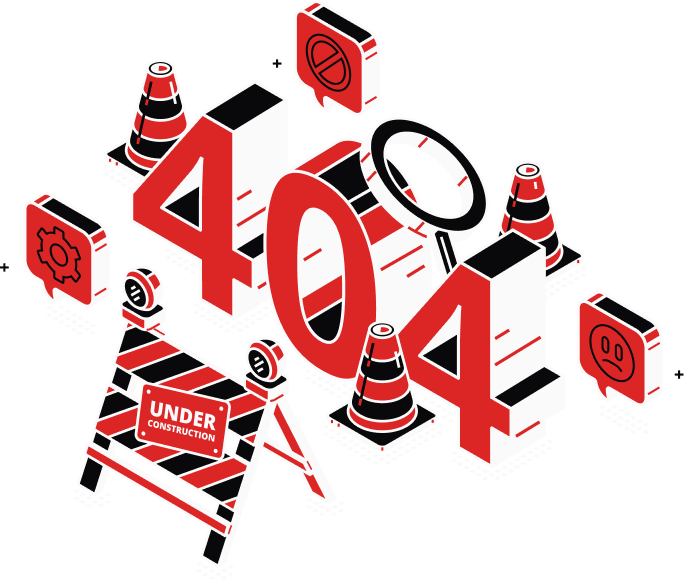
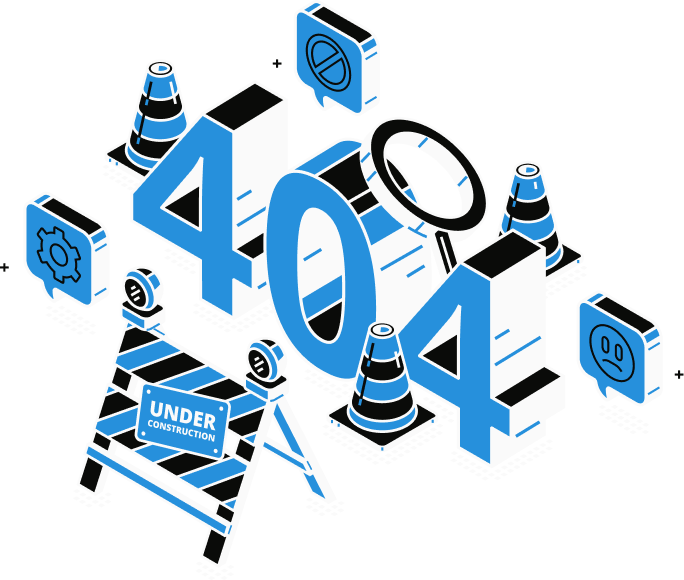
Update 404 page, menu structure, and sidebar theme refinements
Refresh 404 page images and simplify the not-found component.
Expand app menu entries and adjust sidebar primary theme and
vertical layout styles.

Made-with: Cursor

diff --git a/src/app/pages/notfound/notfound.ts b/src/app/pages/notfound/notfound.ts
@@ -1,4 +1,3 @@
-import { AppConfigurator } from '@/app/layout/components/app.configurator';
 import { LayoutService } from '@/app/layout/service/layout.service';
 import { LazyImageWidget } from '@/app/pages/landing/components/lazyimagewidget';
 import { Component, computed, inject } from '@angular/core';
@@ -6,21 +5,16 @@ import { RouterModule } from '@angular/router';
 
 @Component({
     selector: 'app-notfound',
-    standalone: true,
-    imports: [LazyImageWidget, RouterModule, AppConfigurator],
+    imports: [LazyImageWidget, RouterModule],
     template: ` <section class="animate-fadein animate-duration-300 animate-ease-in landing-container mx-auto min-h-[75vh] lg:min-h-screen flex flex-col items-center justify-center">
             <app-lazy-image-widget className="w-64 lg:w-96" [src]="'demo/images/landing/' + (isDarkTheme() ? '404-dark.png' : '404.png')" alt="404 Image" />
-            <h1 class="title-h5 lg:title-h1 mt-8">Error</h1>
-            <p class="body-small lg:body-large mt-2 lg:mt-4">Something gone wrong!</p>
-            <a routerLink="/" class="body-button bg-red-600 w-fit mt-8 hover:bg-red-500 px-4">Go to Dashboard</a>
-        </section>
-        <button class="layout-config-button config-link" (click)="layoutService.toggleConfigSidebar()">
-            <i class="pi pi-cog"></i>
-        </button>
-        <app-configurator simple />`
+            <h1 class="title-h5 lg:title-h1 mt-8">Under Construction</h1>
+            <p class="body-small lg:body-large mt-2 lg:mt-4">Come back later!</p>
+            <a routerLink="/" class="body-button bg-blue-600 w-fit mt-8 hover:bg-blue-500 px-4">Go to the Homepage</a>
+        </section>`
 })
 export class Notfound {
-    layoutService = inject(LayoutService);
+    private layoutService = inject(LayoutService);
 
     isDarkTheme = computed(() => this.layoutService.isDarkTheme());
 }

diff --git a/src/app/layout/components/app.menu.ts b/src/app/layout/components/app.menu.ts
@@ -1,4 +1,5 @@
-import { Component } from '@angular/core';
+import { LayoutService } from '@/app/layout/service/layout.service';
+import { Component, inject } from '@angular/core';
 import { CommonModule } from '@angular/common';
 import { RouterModule } from '@angular/router';
 import { AppMenuitem } from './app.menuitem';
@@ -21,6 +22,8 @@ const SB = environment.storybookBaseUrl;
     </ul> `
 })
 export class AppMenu {
+    private layoutService = inject(LayoutService);
+
     model: any[] = [
         {
             label: 'Home',
@@ -35,7 +38,7 @@ export class AppMenu {
             items: [
                 {
                     label: 'Partners',
-                    icon: 'pi pi-fw pi-building',
+                    icon: 'pi pi-fw pi-globe',
                     routerLink: ['/apps/partners']
                 },
                 {
@@ -97,6 +100,11 @@ export class AppMenu {
             icon: 'pi pi-fw pi-palette',
             path: '/ux',
             items: [
+                {
+                    label: 'Theme Configurator',
+                    icon: 'pi pi-fw pi-cog',
+                    command: () => this.layoutService.toggleConfigSidebar()
+                },
                 {
                     label: 'Storybook',
                     icon: 'pi pi-fw pi-book',

diff --git a/src/assets/layout/sidebar/themes/_primary.scss b/src/assets/layout/sidebar/themes/_primary.scss
@@ -8,7 +8,7 @@
     --d-menuitem-text-color: var(--p-surface-0);
     --d-menuitem-hover-bg: rgba(0, 16, 41, 0.376);
     --d-menuitem-active-bg: var(--p-ocean-100);
-    --d-menuitem-active-text-color: var(--p-surface-0);
+    --d-menuitem-active-text-color: var(--color-ocean-400);
     --d-menuitem-active-route-text-color: var(--color-ocean-400);
     --d-menuitem-focus-shadow: 0 0 0 0.2rem rgba(1, 26, 46, 0.45);
     --d-sidebar-border: 1px solid transparent;
@@ -24,7 +24,7 @@
     --d-menuitem-text-color: var(--p-surface-50);
     --d-menuitem-hover-bg: rgba(0, 16, 41, 0.376);
     --d-menuitem-active-bg: var (--p-ocean-100);
-    --d-menuitem-active-text-color: var(--color-surface-0);
+    --d-menuitem-active-text-color: var(--color-ocean-400);
     --d-menuitem-active-route-text-color: var(--color-ocean-400);
     --d-menuitem-focus-shadow: 0 0 0 0.2rem rgba(1, 26, 46, 0.45);
 }

diff --git a/src/assets/layout/sidebar/_sidebar_theme_core.scss b/src/assets/layout/sidebar/_sidebar_theme_core.scss
@@ -33,6 +33,7 @@
                 color: var(--d-menuitem-text-color);
 
                 &.active-route {
+                    background: var(--d-menuitem-active-bg);
                     color: var(--d-menuitem-active-route-text-color);
                 }
 

diff --git a/src/assets/layout/sidebar/_sidebar_vertical.scss b/src/assets/layout/sidebar/_sidebar_vertical.scss
@@ -40,7 +40,7 @@
 .layout-menu-container {
     overflow: auto;
     flex: 1;
-    padding: 0 0 2rem 1rem;
+    padding: 1rem 0 2rem 1rem;
     transition: padding 0.45s cubic-bezier(0.32, 0.72, 0, 1);
 }
 
